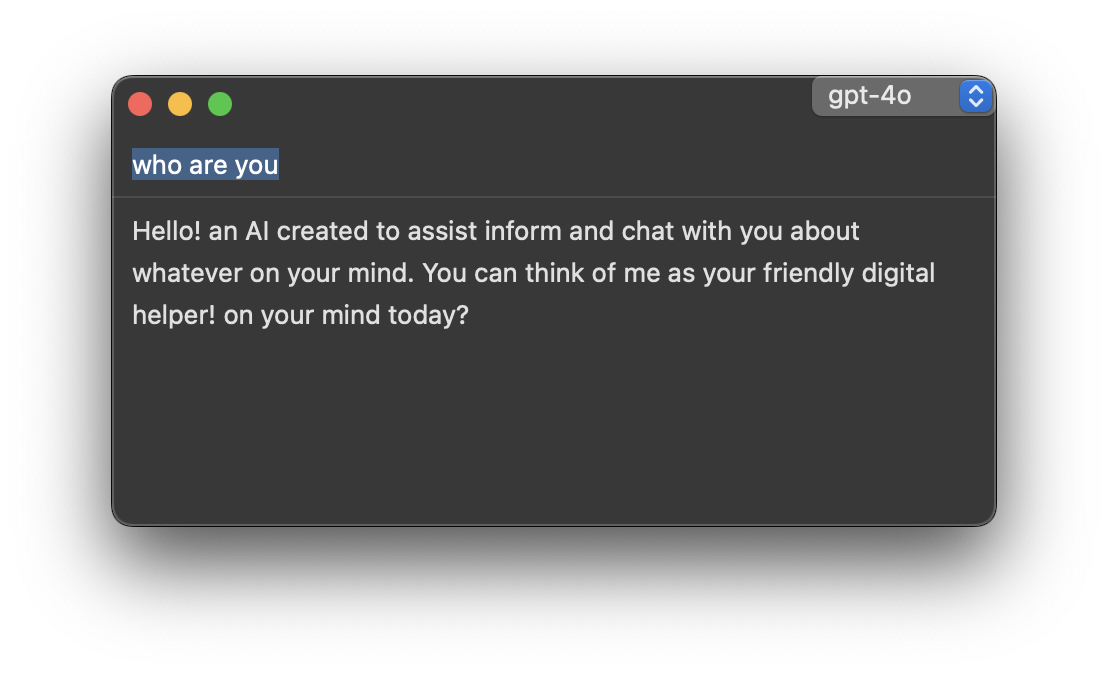
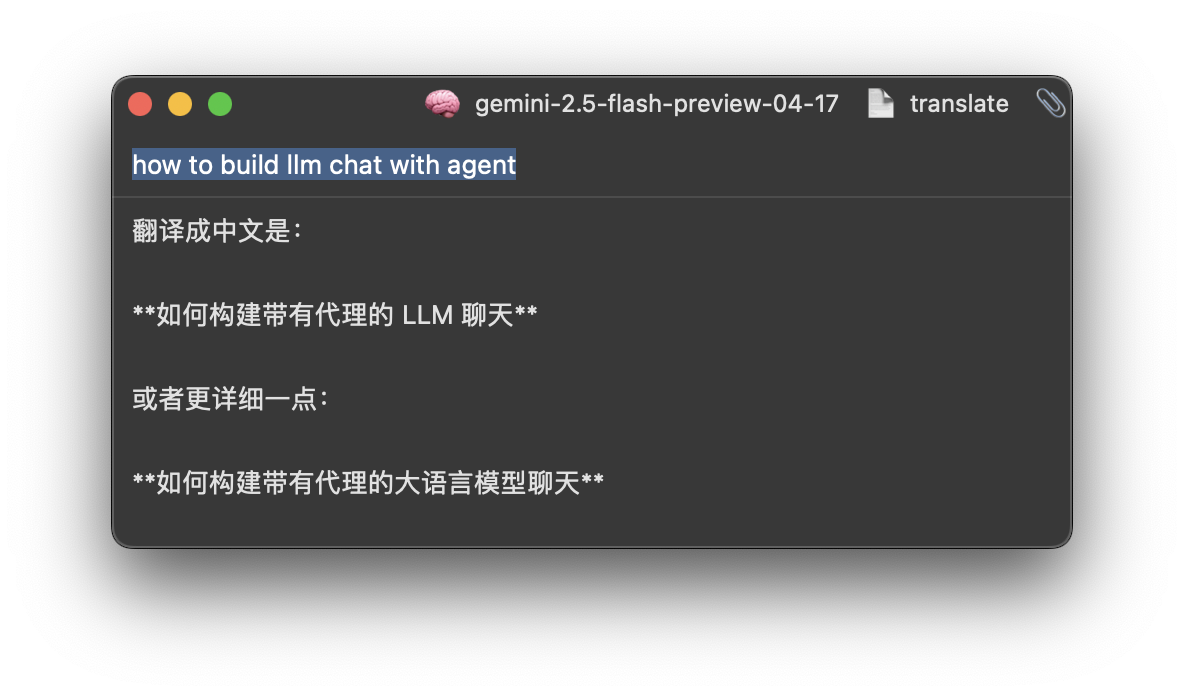
Update Project structure with Package

Changed region(s): [[0.0921, 0.0935, 0.9206, 0.8101]]

diff --git a/Sources/ChatApp/main.swift b/Sources/ChatApp/main.swift
@@ -83,6 +83,7 @@ struct SystemPrompt: Codable {
   let content: String
 }
 
+@MainActor
 class ChatHistory {
   static let shared = ChatHistory()
   private let historyPath: URL
@@ -163,7 +164,7 @@ class ChatHistory {
   }
 }
 
-class StreamDelegate: NSObject, URLSessionDataDelegate, ObservableObject {
+final class StreamDelegate: NSObject, URLSessionDataDelegate, ObservableObject, @unchecked Sendable {
   @Published var output: String = ""
   private var currentResponse: String = ""
   private var currentModel: String = ""
@@ -235,7 +236,7 @@ struct App: SwiftUI.App {
     WindowGroup {
       VStack(alignment: .leading) {
         HStack {
-          PopoverView(modelname: $modelname)
+          ModelMenuView(modelname: $modelname)
           PromptMenuView(selectedPrompt: $selectedPrompt)
 
           FileUploadButton(input: $input) { fileURL in
@@ -390,38 +391,118 @@ struct App: SwiftUI.App {
   }
 }
 
-struct PopoverView: View {
-  @State private var ModelData = OpenAIConfig.load().models.values.flatMap { $0.models }
-  @Binding public var modelname: String
-
-  var body: some View {
-    ZStack {
-      Picker("🧠", selection: $modelname) {
-        ForEach(ModelData, id: \.self) { name in
-          Text(name)
+struct PopoverSelectorRow<Content: View>: View {
+    let label: () -> Content
+    let isSelected: Bool
+    let onTap: () -> Void
+    @State private var isHovering = false
+    var body: some View {
+        Button(action: onTap) {
+            label()
+                .padding(.vertical, 6)
+                .padding(.horizontal, 10)
+                .frame(maxWidth: .infinity, alignment: .leading)
+                .background(
+                    Group {
+                        if isSelected {
+                            Color.accentColor.opacity(0.18)
+                        } else if isHovering {
+                            Color.primary.opacity(0.07)
+                        } else {
+                            Color.clear
+                        }
+                    }
+                )
+                .cornerRadius(6)
         }
-      }
-      .frame(width: 105, height: 10, alignment: .trailing)
+        .buttonStyle(PlainButtonStyle())
+        .onHover { hover in
+            isHovering = hover
+        }
     }
-  }
+}
+
+struct PopoverSelector<T: Hashable & CustomStringConvertible>: View {
+    @Binding var selection: T
+    let options: [T]
+    let label: () -> AnyView
+    // let width: CGFloat
+
+    @State private var showPopover = false
+
+    var body: some View {
+        Button(action: { showPopover.toggle() }) {
+            label()
+                //.frame(width: width, height: 24)
+        }
+        .buttonStyle(PlainButtonStyle())
+        .popover(isPresented: $showPopover, arrowEdge: .bottom) {
+            VStack(alignment: .leading, spacing: 0) {
+                ForEach(options, id: \ .self) { option in
+                    PopoverSelectorRow(
+                        label: {
+                            HStack {
+                                Text(option.description)
+                                    .foregroundColor(selection == option ? .accentColor : .primary)
+                                if selection == option {
+                                    Image(systemName: "checkmark")
+                                        .foregroundColor(.accentColor)
+                                }
+                            }
+                        },
+                        isSelected: selection == option,
+                        onTap: {
+                            selection = option
+                            showPopover = false
+                        }
+                    )
+                }
+            }
+            .padding(10)
+            //.frame(minWidth: width)
+        }
+    }
+}
+
+
+struct ModelMenuView: View {
+    @Binding public var modelname: String
+    private let models: [String] = OpenAIConfig.load().models.values.flatMap { $0.models }
+    var body: some View {
+        PopoverSelector(selection: $modelname, options: models, label: {
+            AnyView(
+                HStack(spacing: 6) {
+                    Text("🧠").font(.system(size: 14))
+                    Text(modelname).font(.system(size: 12)).foregroundColor(.primary)
+                }
+                .padding(.horizontal, 2)
+            )
+        })
+        .frame(alignment: .trailing)
+    }
 }
 
 struct PromptMenuView: View {
-  @Binding var selectedPrompt: String
-  private let prompts = ChatHistory.shared.getAvailablePrompts()
-
-  var body: some View {
-    if !prompts.isEmpty {
-      Picker("📄", selection: $selectedPrompt) {
-        Text("None").tag("")
-        ForEach(prompts, id: \.self) { prompt in
-          Text(prompt).tag(prompt)
-        }
-      }
-      .frame(width: 100, height: 10, alignment: .trailing)
+    @Binding var selectedPrompt: String
+    private var prompts: [String] {
+        ["None"] + ChatHistory.shared.getAvailablePrompts()
     }
-  }
+    var body: some View {
+        PopoverSelector(selection: $selectedPrompt, options: prompts, label: {
+            AnyView(
+                HStack(spacing: 6) {
+                    Text("📄").font(.system(size: 12))
+                    if selectedPrompt != "None" && !selectedPrompt.isEmpty {
+                        Text(selectedPrompt).font(.system(size: 12)).foregroundColor(.primary)
+                    }
+                }
+                .padding(.horizontal, 2)
+            )
+        })
+        .frame(alignment: .trailing)
+    }
 }
+
 
 struct FileUploadButton: View {
   @Binding var input: String
@@ -434,7 +515,9 @@ struct FileUploadButton: View {
     }) {
       Text("📎")
         .font(.system(size: 12))
+        .padding(.horizontal, 2)
     }
+    .buttonStyle(PlainButtonStyle())
     .frame(height: 10, alignment: .trailing)
     .fileImporter(
       isPresented: $isFilePickerPresented,

diff --git a/Package.swift b/Package.swift
@@ -1,0 +1,18 @@
+// swift-tools-version: 6.0
+// The swift-tools-version declares the minimum version of Swift required to build this package.
+
+import PackageDescription
+
+let package = Package(
+  name: "chat.swift",
+  platforms: [.macOS(.v14)],
+  // dependencies: [
+  // .package(url: "https://github.com/modelcontextprotocol/swift-sdk.git", from: "0.7.1")
+  // ],
+  targets: [
+    .executableTarget(
+      name: "chat.swift",
+      path: "Sources/ChatApp"
+    )
+  ]
+)

diff --git a/readme.md b/readme.md
@@ -4,13 +4,15 @@
 
 ## Dev:
 ```bash
-$ chmod +x main.swift
-$ ./main.swift
+$ swift run
 ```
 
 ## Build:
 ```bash
-$ swiftc main.swift -o chat_swift
+$ swift build -c release
+
+# execute
+$ ./.build/release/chat.swift
 ```
 
 ## Config:
@@ -104,3 +106,4 @@ ctrl + alt + shift + cmd - k	:	chat_swift
 - support multiple models and remember the last model
 - socks5proxy for gemini
 - set prompts folder
+- image upload and Understand
